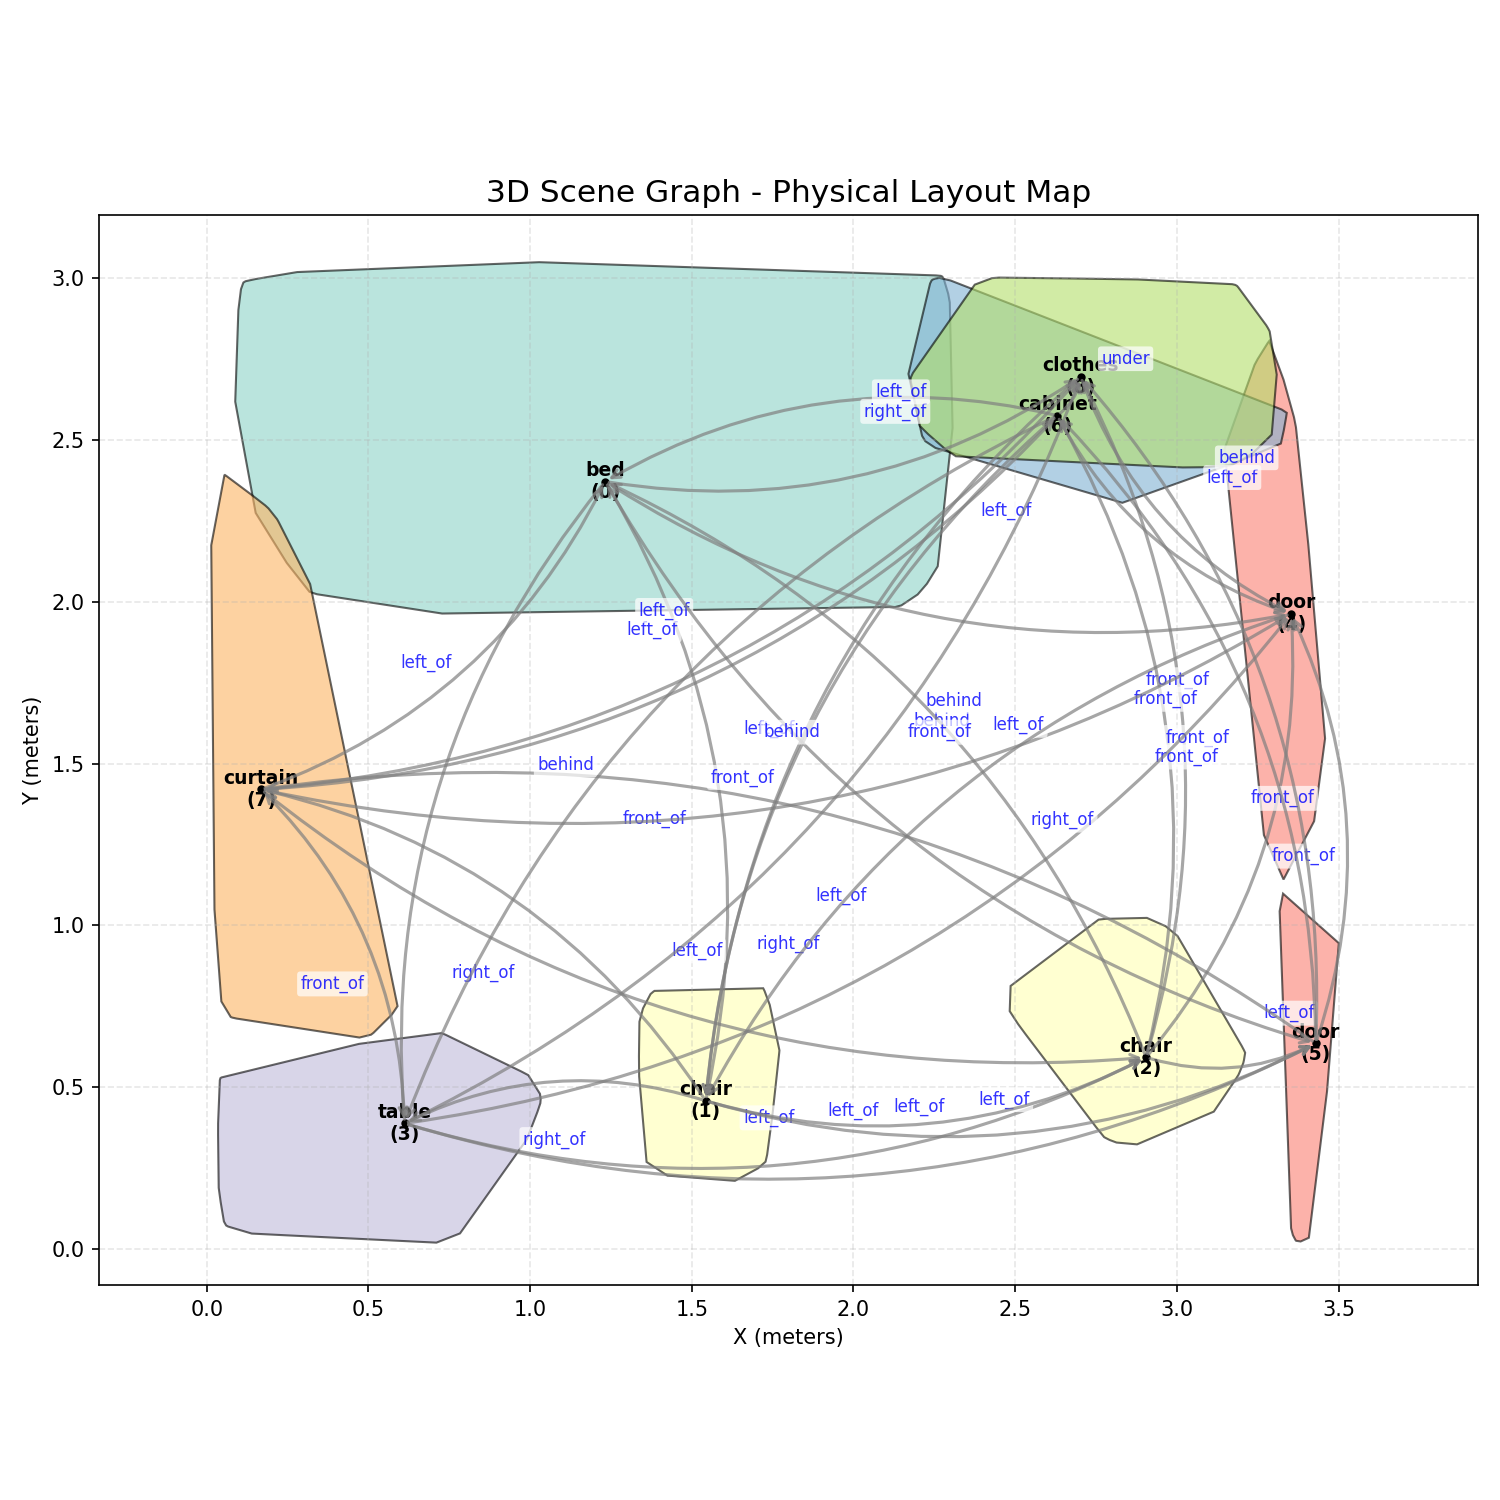
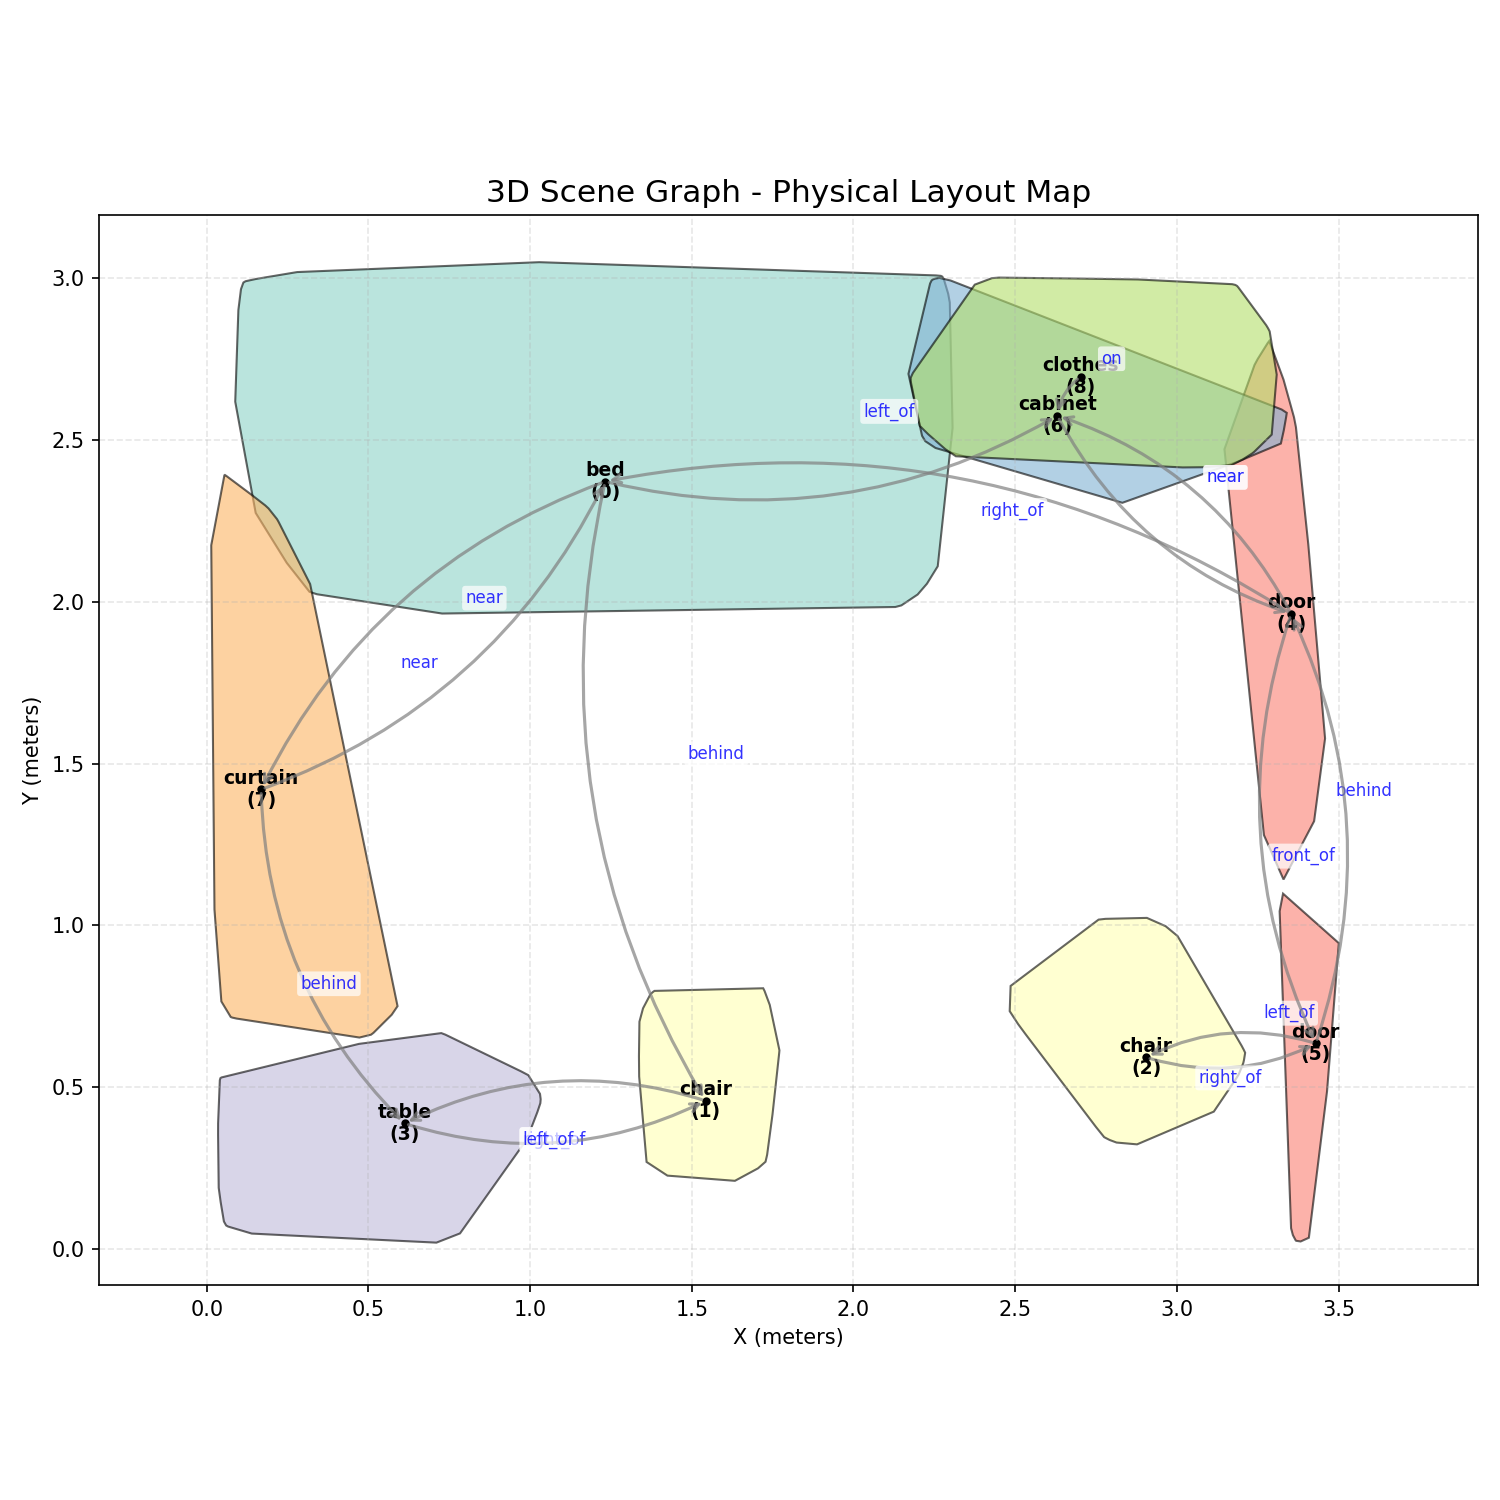
update: simplify relationships on scene graph

diff --git a/generate_relationships.py b/generate_relationships.py
@@ -6,24 +6,12 @@ import argparse
 import math
 from shapely.geometry import Polygon
 
-# [설정] 관계의 목적어(Target)가 될 수 없는 배경 객체들
 IGNORE_AS_TARGET = ["floor", "wall", "ceiling"]
 
-# 관계 역관계 매핑 (중복 제거용)
-INVERSE_MAP = {
-    "left_of": "right_of",
-    "right_of": "left_of",
-    "front_of": "behind",
-    "behind": "front_of",
-    "on": "under",
-    "under": "on",
-    "near": "near"
-}
-
-# 우선순위 (높을수록 좋음)
+# 관계 우선순위
 PRIORITY_MAP = {
-    "on": 3, 
-    "under": 3, 
+    "on": 5,        # 물리적 접촉 (가장 중요)
+    "under": 5, 
     "front_of": 2, 
     "behind": 2, 
     "left_of": 2, 
@@ -31,16 +19,7 @@ PRIORITY_MAP = {
     "near": 1
 }
 
-def get_bbox_dims(node):
-    """BBox의 너비(W), 깊이(D), 높이(H) 및 대각선 길이(Scale) 반환"""
-    min_p = np.array(node['bbox_min'])
-    max_p = np.array(node['bbox_max'])
-    dims = max_p - min_p # [x, y, z]
-    scale = np.linalg.norm(dims) # 대각선 길이
-    return dims, scale
-
 def get_polygon(node):
-    """Footprint 다각형 반환"""
     if 'footprint' in node and len(node['footprint']) > 2:
         return Polygon(node['footprint'])
     else:
@@ -48,135 +27,95 @@ def get_polygon(node):
         return Polygon([(min_p[0], min_p[1]), (max_p[0], min_p[1]), (max_p[0], max_p[1]), (min_p[0], max_p[1])])
 
 def calculate_direction_score(p1, p2):
-    """
-    두 점 사이의 각도를 계산하여 방향과 '정렬 점수(Alignment Score)' 반환
-    점수가 높을수록 축(0, 90, 180, 270도)에 가까움
-    """
     dx = p2[0] - p1[0]
     dy = p2[1] - p1[1]
     angle = math.degrees(math.atan2(dy, dx))
     
-    # 4방위 판정
-    if -45 <= angle <= 45:
-        pred = "right_of"
-        ideal = 0
-    elif 45 < angle <= 135:
-        pred = "behind"
-        ideal = 90
-    elif -135 <= angle < -45:
-        pred = "front_of"
-        ideal = -90
-    else:
-        pred = "left_of"
-        ideal = 180 if angle > 0 else -180
+    if -45 <= angle <= 45: pred = "right_of"; ideal = 0
+    elif 45 < angle <= 135: pred = "behind"; ideal = 90
+    elif -135 <= angle < -45: pred = "front_of"; ideal = -90
+    else: pred = "left_of"; ideal = 180 if angle > 0 else -180
     
-    # 정렬 점수: 이상적인 각도와의 차이가 작을수록 1.0에 가까움 (Cosine 유사도 활용)
-    # diff가 0이면 score 1.0, diff가 45면 score 0.0 근처가 되도록 조정
     angle_diff = abs(angle - ideal)
     if angle_diff > 180: angle_diff = 360 - angle_diff
-    
-    # 45도 차이면 0점, 0도 차이면 1점 (선형 보간)
-    align_score = max(0.0, 1.0 - (angle_diff / 45.0))
+    align_score = max(0.0, 1.0 - (angle_diff / 45.0)) # 0~1 점수
     
     return pred, align_score
 
-def analyze_relationship_adaptive(subj, obj):
-    """
-    개선된 관계 분석 로직 (Adaptive Thresholding)
-    """
+def analyze_relationship_sparse(subj, obj):
     subj_c = np.array(subj['centroid'])
     obj_c = np.array(obj['centroid'])
     
-    # 1. 크기(Scale) 계산
-    subj_dims, subj_scale = get_bbox_dims(subj)
-    obj_dims, obj_scale = get_bbox_dims(obj)
-    avg_scale = (subj_scale + obj_scale) / 2.0
-    
-    # [피드백 1] 적응형 거리 Threshold
+    # 1. 거리 계산
     dist = np.linalg.norm(subj_c - obj_c)
-    dist_threshold = max(1.5, avg_scale * 2.5) # 최소 1.5m, 혹은 객체 크기의 2.5배
     
-    if dist > dist_threshold:
-        return None, 0.0
+    # [핵심] 거리 컷오프를 엄격하게 적용 (on/under가 아니면 1.5m 넘어가면 무시)
+    # 단, 객체가 매우 큰 경우(침대 등)는 예외적으로 허용
+    dims = np.array(subj['bbox_max']) - np.array(subj['bbox_min'])
+    max_dim = np.max(dims)
+    dist_limit = max(1.5, max_dim * 1.5) 
 
-    # 2. 기하학적 겹침 분석 (IoU & IoS)
+    if dist > dist_limit: return None, 0.0
+
+    # 2. Vertical (ON/UNDER) - 거리 상관없이 물리적 겹침이면 인정
+    subj_min_z, subj_max_z = subj['bbox_min'][2], subj['bbox_max'][2]
+    obj_max_z = obj['bbox_max'][2]
+    
     subj_poly = get_polygon(subj)
     obj_poly = get_polygon(obj)
     if not subj_poly.is_valid: subj_poly = subj_poly.buffer(0)
     if not obj_poly.is_valid: obj_poly = obj_poly.buffer(0)
     
-    intersection = subj_poly.intersection(obj_poly).area
+    inter_area = subj_poly.intersection(obj_poly).area
     subj_area = subj_poly.area
-    obj_area = obj_poly.area
-    union_area = subj_area + obj_area - intersection
+    ios = inter_area / subj_area if subj_area > 0 else 0.0
     
-    iou = intersection / union_area if union_area > 0 else 0.0
-    ios = intersection / subj_area if subj_area > 0 else 0.0 # Intersection over Subject
+    if ios > 0.3 and -0.2 < (subj_min_z - obj_max_z) < 0.5:
+        # 가중치: 겹침 정도가 클수록 높음
+        return "on", 10.0 + ios 
 
-    # 3. [피드백 3] 정규화된 높이 분석
-    # 주체와 객체의 높이(H)를 고려하여 허용 범위를 설정
-    subj_min_z, subj_max_z = subj['bbox_min'][2], subj['bbox_max'][2]
-    obj_min_z, obj_max_z = obj['bbox_min'][2], obj['bbox_max'][2]
-    
-    # Z-Gap: 주체 바닥 - 객체 천장
-    z_gap_on = subj_min_z - obj_max_z 
-    
-    # 허용 오차: 절대값 20cm 혹은 객체 높이의 20% 중 큰 값 (유연함)
-    tolerance_on = max(0.2, obj_dims[2] * 0.2) 
-    
-    # [ON 판단]
-    # IoS가 높아야 함(작은게 큰거 위에 올라감) + Z-Gap이 허용오차 내에 있어야 함
-    if ios > 0.3 and abs(z_gap_on) < tolerance_on:
-        # 점수: 겹침 정도 + 높이 정확도
-        score = ios * 10.0 + (1.0 - abs(z_gap_on)/tolerance_on)
-        return "on", score
-
-    # [UNDER 판단]
-    z_gap_under = obj_min_z - subj_max_z
-    tolerance_under = max(0.2, subj_dims[2] * 0.2)
-    
-    if ios > 0.3 and abs(z_gap_under) < tolerance_under:
-        score = ios * 10.0 + (1.0 - abs(z_gap_under)/tolerance_under)
-        return "under", score
-
-    # 4. [피드백 2] 방향성 판단 (연속 각도 기반)
-    # 겹침이 적을 때만 방향성 부여 (IoU 기준)
-    if iou < 0.1:
+    # 3. Horizontal & Near (거리가 멀면 점수 대폭 깎음)
+    if ios < 0.1:
+        # 거리 페널티: 거리가 0에 가까우면 1.0, limit에 가까우면 0.0
+        dist_score = max(0.0, 1.0 - (dist / dist_limit))
+        
+        # 방향성 계산
         pred, align_score = calculate_direction_score(obj_c, subj_c)
-        # 점수: 정렬도(0~1) * 5.0
-        return pred, align_score * 5.0
-
-    # 5. [피드백 5] Near 판단 (정규화된 거리)
-    # 거리가 가까울수록 1.0, 멀수록 0.0 (적응형 임계값 기준)
-    normalized_dist_score = max(0.0, 1.0 - (dist / dist_threshold))
-    
-    if normalized_dist_score > 0.2: # 하위 20%는 버림
-        return "near", normalized_dist_score # 최대 1.0
+        
+        # 최종 점수 = 방향정확도 * 거리점수 * 5.0
+        # 거리가 멀면 방향이 정확해도 점수가 낮아져서 탈락됨
+        final_score = align_score * dist_score * 5.0
+        
+        if final_score > 1.0: # 일정 점수 이상만 인정 (노이즈 제거)
+            return pred, final_score
+        elif dist_score > 0.5: # 방향은 애매하지만 매우 가까우면 near
+            return "near", dist_score * 2.0
 
     return None, 0.0
 
 def main():
     parser = argparse.ArgumentParser()
     parser.add_argument("--input_json", type=str, default="scene_graph_nodes_convexhull.json")
-    parser.add_argument("--output_json", type=str, default="scene_graph_final.json")
+    parser.add_argument("--output_json", type=str, default="scene_graph_sparse.json")
     args = parser.parse_args()
 
     print(f"Loading nodes from {args.input_json}...")
     with open(args.input_json, 'r') as f:
         nodes = json.load(f)
         
-    all_candidates = []
+    final_relationships = []
     
-    # Step 1: 모든 관계 후보 생성
+    # [Step 1] 각 Subject별로 가장 중요한 관계 Top-K개만 선택
     for subj in nodes:
+        candidates = []
+        
         for obj in nodes:
             if subj['id'] == obj['id']: continue
-            if obj['label'] in IGNORE_AS_TARGET: continue 
+            if obj['label'] in IGNORE_AS_TARGET: continue
             
-            pred, score = analyze_relationship_adaptive(subj, obj)
-            
+            pred, score = analyze_relationship_sparse(subj, obj)
             if pred:
-                all_candidates.append({
+                candidates.append({
                     "subject_id": subj['id'],
                     "subject_label": subj['label'],
                     "predicate": pred,
@@ -184,31 +123,32 @@ def main():
                     "object_label": obj['label'],
                     "score": score
                 })
+        
+        if not candidates: continue
+        
+        # [핵심 필터링]
+        # 1. 'on' 관계는 무조건 포함 (최대 1개)
+        on_rels = [r for r in candidates if r['predicate'] == "on"]
+        if on_rels:
+            best_on = max(on_rels, key=lambda x: x['score'])
+            final_relationships.append(best_on)
+            # on이 있으면 다른 관계는 굳이 필요 없음 (Exclusivity)
+            continue 
 
-    # Step 2: 정렬 (우선순위 -> 점수)
-    all_candidates.sort(key=lambda x: (PRIORITY_MAP.get(x['predicate'], 0), x['score']), reverse=True)
-    
-    # Step 3: [피드백 6] 스마트 중복 제거
-    # 규칙: 두 객체 A, B 사이에는 "가장 강력한 관계 하나"만 남긴다.
-    # 단, 방향성(left)과 근접(near)처럼 정보량이 다른 경우, 상위 정보를 선택.
-    
-    final_relationships = []
-    processed_pairs = set() # (A, B) 혹은 (B, A)가 처리되었는지 확인
-    
-    for rel in all_candidates:
-        s_id = rel['subject_id']
-        o_id = rel['object_id']
+        # 2. 나머지 관계는 점수순 정렬 후 상위 2개(Top-2)만 유지
+        # -> 이렇게 하면 'table'이 10개 물체와 관계를 맺는 것을 방지함
+        candidates.sort(key=lambda x: x['score'], reverse=True)
         
-        # 정렬된 키를 사용하여 A->B와 B->A를 같은 쌍으로 취급
-        pair_key = tuple(sorted((s_id, o_id)))
-        
-        if pair_key in processed_pairs:
-            continue # 이미 더 높은 점수/우선순위의 관계가 이 쌍에 존재함
+        # 상위 2개만 선택하되, 중복 방향 방지 (예: 왼쪽1, 왼쪽2 -> 왼쪽1만)
+        used_directions = set()
+        count = 0
+        for r in candidates:
+            if r['predicate'] in used_directions: continue
             
-        # 선택된 관계 저장
-        final_rel = {k: v for k, v in rel.items() if k != 'score'}
-        final_relationships.append(final_rel)
-        processed_pairs.add(pair_key)
+            final_relationships.append(r)
+            used_directions.add(r['predicate'])
+            count += 1
+            if count >= 2: break # 최대 2개까지만 연결
 
     # 결과 저장
     output_data = {
@@ -219,9 +159,9 @@ def main():
     with open(args.output_json, 'w') as f:
         json.dump(output_data, f, indent=4)
         
-    print(f" Generated {len(final_relationships)} adaptive relationships.")
-    print(f" Eliminated redundant edges using Smart Deduplication.")
-    print(f" Saved to {args.output_json}")
+    print(f"Generated Sparse Scene Graph: {len(final_relationships)} edges.")
+    print(f"Applied: Distance Decay & Top-2 Neighbor Limit.")
+    print(f"Saved to {args.output_json}")
 
 if __name__ == "__main__":
     main()

diff --git a/visualize_scene_map.py b/visualize_scene_map.py
@@ -6,7 +6,7 @@ import argparse
 
 def main():
     parser = argparse.ArgumentParser()
-    parser.add_argument("--input", type=str, default="scene_graph_final.json")
+    parser.add_argument("--input", type=str, default="scene_graph_sparse.json")
     args = parser.parse_args()
 
     with open(args.input, 'r') as f:
